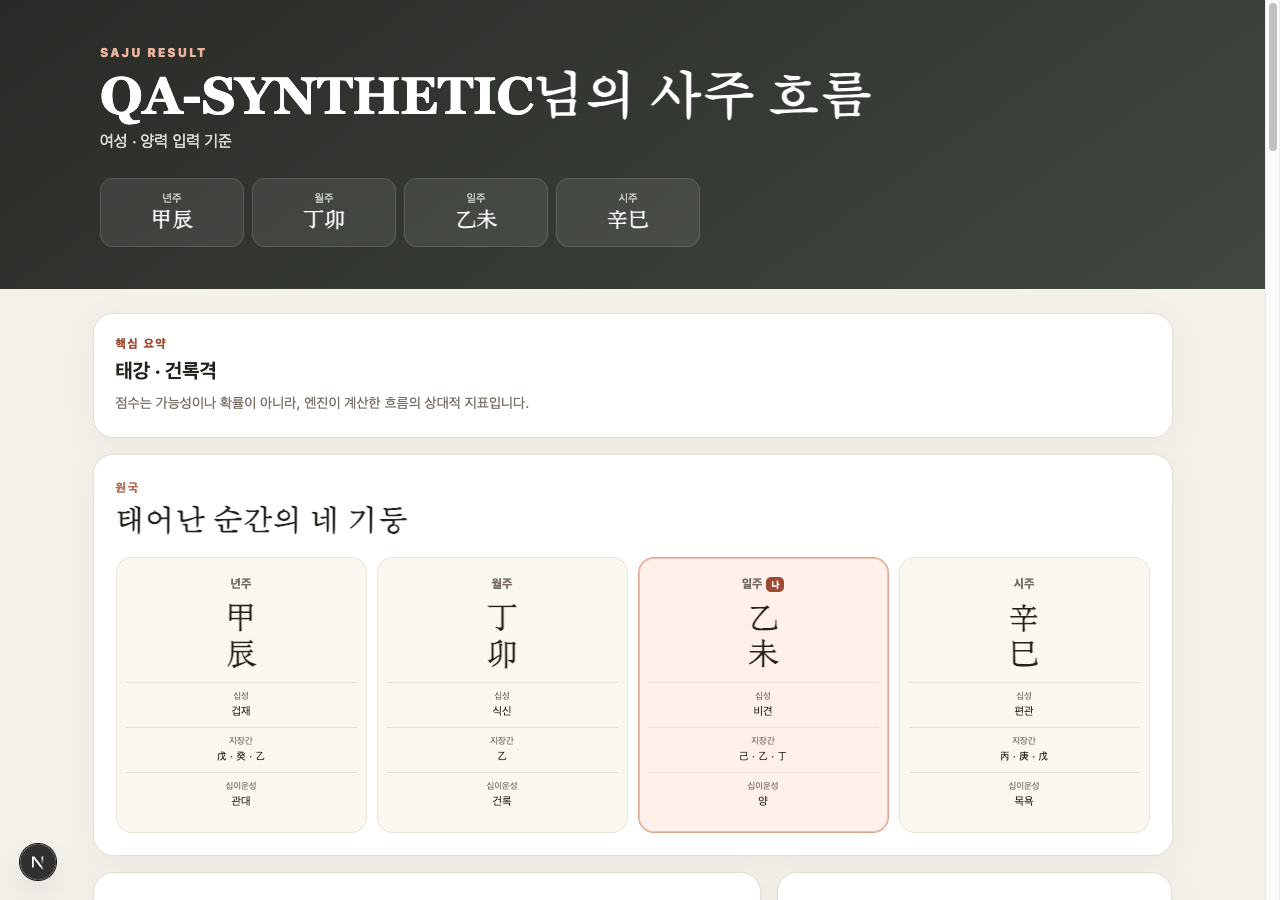
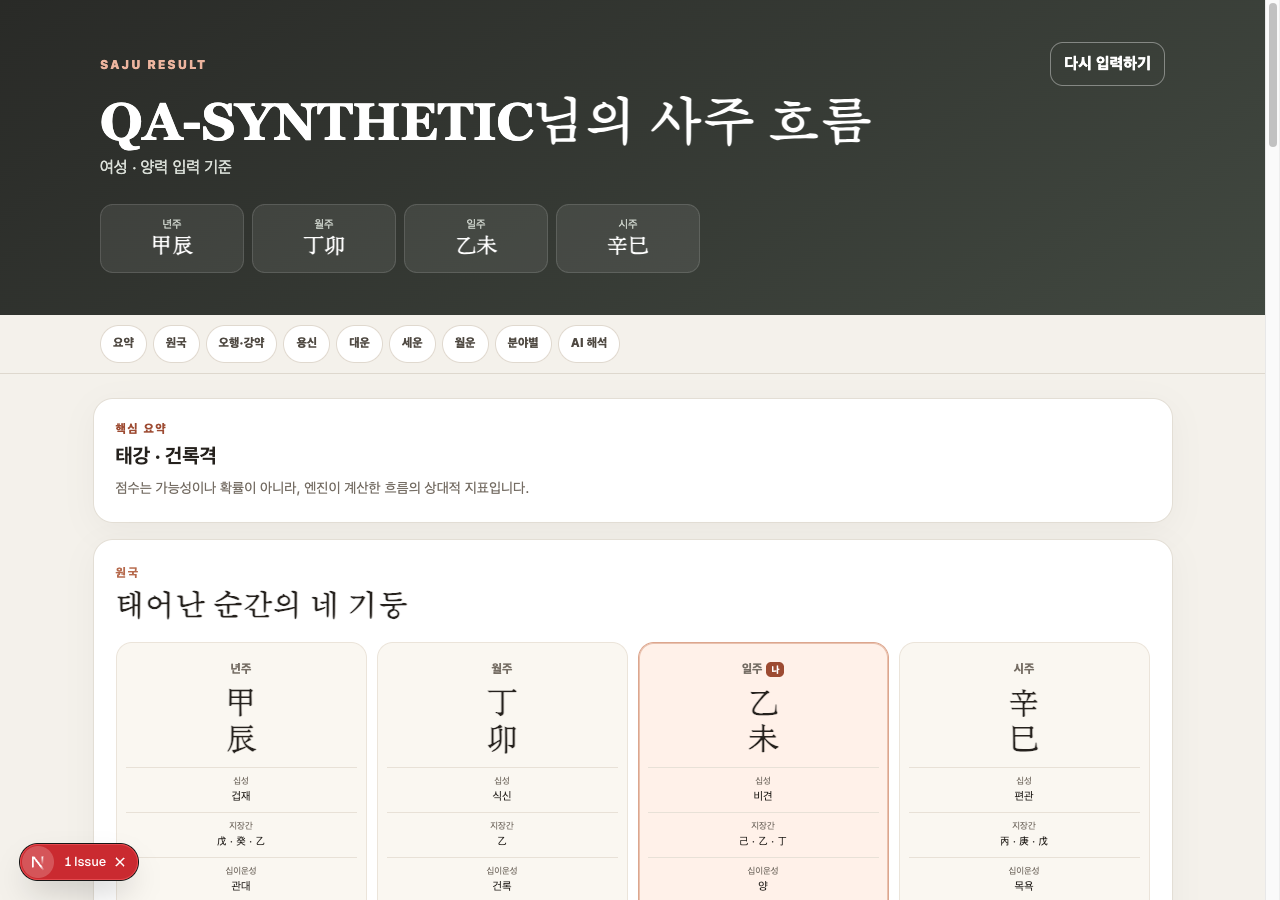
fix: refine customer result experience

diff --git a/src/components/CustomerResult.tsx b/src/components/CustomerResult.tsx
@@ -36,8 +36,11 @@ function Evidence({ ids, analysis }: { ids: string[]; analysis: SajuAnalysis }) 
       analysis.usefulGods.synthesis.status === "implemented" ? analysis.usefulGods.synthesis.evidence : []].flat();
     return new Map(all.map((item) => [item, item]));
   }, [analysis]);
-  return <details className="evidence"><summary>왜 이렇게 나오나요?</summary><ul>{ids.map((id) => <li key={id}><code>{id}</code><span>{source.get(id) ?? "검증된 근거 식별자 · 상세 설명은 엔진 원본을 기준으로 합니다."}</span></li>)}</ul></details>;
+  const label = (id: string) => id.includes("FAVORABILITY") ? "선택한 기간의 지원 흐름을 반영했습니다." : id.includes("ACTIVATION") ? "변화와 사건의 움직임이 얼마나 활발한지 반영했습니다." : id.includes("ALIGNMENT") ? "현재 흐름과 원국 오행의 정렬 관계를 반영했습니다." : id.includes("CATEGORY") ? "분야별 지원도와 활성도를 각각 반영했습니다." : id.includes("USEFUL_GOD") ? "여러 용신 관점의 합의와 충돌을 함께 반영했습니다." : "검증된 엔진 결과를 근거로 사용했습니다.";
+  return <details className="evidence"><summary>왜 이렇게 나오나요?</summary><ul>{ids.map((id) => <li key={id}><span>{label(source.get(id) ?? id)}</span>{process.env.NODE_ENV !== "production" && <code>{id}</code>}</li>)}</ul></details>;
 }
+
+const RESULT_NAV = [["summary", "요약"], ["natal", "원국"], ["elements", "오행·강약"], ["useful", "용신"], ["daeun", "대운"], ["seun", "세운"], ["wolun", "월운"], ["categories", "분야별"], ["interpretation", "AI 해석"]] as const;
 
 function Natal({ analysis }: { analysis: SajuAnalysis }) {
   const tenGods = analysis.tenGods.value, hidden = analysis.hiddenStems.value, stages = analysis.twelveStages.value;
@@ -68,29 +71,27 @@ function PreferencesAndStars({ analysis }: { analysis: SajuAnalysis }) {
   return <div className="splitCards"><Section id="preferences" eyebrow="천간 · 지지" title="선호도가 높은 글자"><div className="preference"><div><span>천간</span><strong>{stems.status === "implemented" ? stems.rankedStems.slice(0, 4).join(" · ") : "—"}</strong></div><div><span>지지</span><strong>{branches.status === "implemented" ? branches.rankedBranches.slice(0, 4).join(" · ") : "—"}</strong></div></div><details><summary>전체 순위 보기</summary><p className="rankLine">{stems.status === "implemented" && stems.stems.map((v) => `${v.stem} ${round(v.score)}`).join(" · ")}</p><p className="rankLine">{branches.status === "implemented" && branches.branches.map((v) => `${v.branch} ${round(v.score)}`).join(" · ")}</p></details></Section><Section id="stars" eyebrow="귀인 · 신살" title="탐지된 보조 지표"><div className="chips">{detected.length ? detected.map((star) => <span key={star.id}>{star.label}</span>) : <span>두드러진 항목 없음</span>}</div><p className="notice">전통적으로 성향과 흐름을 보조해 읽는 지표이며, 하나의 항목만으로 길흉이나 사건을 단정하지 않습니다.</p></Section></div>;
 }
 
-function Periods({ analysis, current }: { analysis: SajuAnalysis; current: CurrentPeriodSelection }) {
+function Periods({ analysis, current, year, onYearChange }: { analysis: SajuAnalysis; current: CurrentPeriodSelection; year: number; onYearChange: (year: number) => void }) {
   const fortune = analysis.fortune as FortuneResult;
   const [daeunIndex, setDaeunIndex] = useState(current.daeunIndex ?? 0);
   const seunAll = fortune.seun.status === "implemented" ? fortune.seun.periods ?? [] : [];
-  const initialYear = current.seunYear ?? seunAll[0]?.year ?? 0;
-  const [year, setYear] = useState(initialYear);
   const seun = seunAll.find((item) => item.year === year);
   const wolun = fortune.wolun.status === "implemented" ? (fortune.wolun.periods ?? []).filter((item) => item.seunYear === year).slice(0, 12) : [];
   const selectedDaeun = fortune.daeun.status === "implemented" ? fortune.daeun.periods[daeunIndex] : undefined;
-  return <><Section id="daeun" eyebrow="대운" title="10년 흐름"><div className="timeline" role="list" aria-label="대운 타임라인">{fortune.daeun.status === "implemented" && fortune.daeun.periods.map((period) => <button role="listitem" aria-pressed={period.index === daeunIndex} className={period.index === daeunIndex ? "active" : ""} key={period.index} onClick={() => setDaeunIndex(period.index)}><b>{period.pillar.stem}{period.pillar.branch}</b><span>{period.sourcePeriod.ageRange}</span><small>{FAVORABILITY[period.preference.role] ?? period.preference.role} · 변화 {ACTIVITY[period.activation.level]}</small></button>)}</div>{selectedDaeun && <div className="periodDetail"><h3>{selectedDaeun.pillar.stem}{selectedDaeun.pillar.branch} 대운</h3><div className="metricGrid"><Score label="선호도" score={selectedDaeun.preference.baseFavorabilityScore} level={selectedDaeun.preference.role} /><Score label="활성도" score={selectedDaeun.activation.score} level={selectedDaeun.activation.level} tone="activity" /></div><p>십성 {selectedDaeun.tenGodProfile.stemTenGod} · 주요 상호작용 {selectedDaeun.interactions.length}개</p></div>}</Section><Section id="seun" eyebrow="세운" title="해마다 달라지는 흐름"><div className="yearPicker" role="list" aria-label="세운 연도 선택">{seunAll.slice(0, 18).map((period) => <button role="listitem" aria-pressed={period.year === year} className={period.year === year ? "active" : ""} key={period.year} onClick={() => setYear(period.year)}><b>{period.year}</b><span>{period.pillar.stem}{period.pillar.branch}</span></button>)}</div>{seun && <SeunDetail period={seun} />}</Section><Wolun periods={wolun} /></>;
+  return <><Section id="daeun" eyebrow="대운" title="10년 흐름"><p className="sectionLead scrollHint">좌우로 넘겨 다른 대운을 선택할 수 있어요.</p><div className="timeline" role="list" aria-label="대운 타임라인">{fortune.daeun.status === "implemented" && fortune.daeun.periods.map((period) => <button role="listitem" aria-pressed={period.index === daeunIndex} className={period.index === daeunIndex ? "active" : ""} key={period.index} onClick={() => setDaeunIndex(period.index)}><b>{period.pillar.stem}{period.pillar.branch}</b><span>{period.sourcePeriod.ageRange}</span><small>{FAVORABILITY[period.preference.role] ?? period.preference.role} · 변화 {ACTIVITY[period.activation.level]}</small></button>)}</div>{selectedDaeun && <div className="periodDetail" aria-live="polite"><h3>{selectedDaeun.pillar.stem}{selectedDaeun.pillar.branch} 대운</h3><div className="metricGrid"><Score label="선호도" score={selectedDaeun.preference.baseFavorabilityScore} level={selectedDaeun.preference.role} /><Score label="활성도" score={selectedDaeun.activation.score} level={selectedDaeun.activation.level} tone="activity" /></div><p>십성 {selectedDaeun.tenGodProfile.stemTenGod} · 주요 상호작용 {selectedDaeun.interactions.length}개</p></div>}</Section><Section id="seun" eyebrow="세운" title="해마다 달라지는 흐름"><p className="sectionLead scrollHint">연도를 선택하면 월운과 분야별 흐름도 함께 바뀝니다.</p><div className="yearPicker" role="list" aria-label="세운 연도 선택">{seunAll.slice(0, 18).map((period) => <button role="listitem" aria-pressed={period.year === year} className={period.year === year ? "active" : ""} key={period.year} onClick={() => onYearChange(period.year)}><b>{period.year}{period.year === current.seunYear && <small className="currentBadge">현재</small>}</b><span>{period.pillar.stem}{period.pillar.branch}</span></button>)}</div>{seun && <div aria-live="polite"><SeunDetail period={seun} /></div>}</Section><Wolun periods={wolun} /></>;
 }
 
 function SeunDetail({ period }: { period: SeunActivationPeriod }) { return <div className="periodDetail"><h3>{period.year}년 {period.pillar.stem}{period.pillar.branch}</h3><p>현재 대운 {period.activeDaeunPillar ?? "경계 밖"}{period.daeunSegments.length > 1 && " · 대운 경계가 포함된 해"}</p><div className="metricGrid"><Score label="선호도" score={period.preference.baseFavorabilityScore} level={period.preference.role} /><Score label="활성도" score={period.activation.score} level={period.activation.level} tone="activity" /></div></div>; }
 
 function Wolun({ periods }: { periods: WolunActivationPeriod[] }) { return <Section id="wolun" eyebrow="월운" title="절기로 나눈 열두 달"><p className="notice">월운은 양력 1일 기준이 아니라 절기 경계로 바뀝니다. 아래 실제 기간을 함께 확인해 주세요.</p><div className="monthGrid">{periods.map((period) => <article key={`${period.seunYear}-${period.indexInSeun}`}><span>{period.solarMonthBranch}월</span><strong>{period.pillar.stem}{period.pillar.branch}</strong><small>{date(period.period.startInstant)} ~ {date(period.period.endInstant)}</small><div><b>선호 {round(period.preference.baseFavorabilityScore)}</b><b>변화 {round(period.activation.score)}</b></div></article>)}</div></Section>; }
 
-function Categories({ analysis, current }: { analysis: SajuAnalysis; current: CurrentPeriodSelection }) {
+function Categories({ analysis, selectedYear, current }: { analysis: SajuAnalysis; selectedYear: number; current: CurrentPeriodSelection }) {
   const fortune = analysis.fortune as FortuneResult;
   if (fortune.categories.status !== "implemented" || fortune.synthesis.status !== "implemented") return null;
-  const axes = fortune.synthesis.seun.find((item) => item.context.seunYear === current.seunYear) ?? fortune.synthesis.daeun[current.daeunIndex ?? 0] ?? fortune.synthesis.seun[0];
+  const axes = fortune.synthesis.seun.find((item) => item.context.seunYear === selectedYear) ?? fortune.synthesis.daeun[current.daeunIndex ?? 0] ?? fortune.synthesis.seun[0];
   const category = fortune.categories.seun.find((item) => item.synthesisId === axes?.synthesisId) ?? fortune.categories.daeun.find((item) => item.synthesisId === axes?.synthesisId) ?? fortune.categories.seun[0];
   if (!category || !axes) return null;
-  return <><Section id="axes" eyebrow="종합 운 흐름" title="서로 다른 세 가지 축"><div className="metricGrid three"><Score label="지원 흐름" score={axes.favorability.score} level={axes.favorability.level} /><Score label="변화 활성도" score={axes.activation.score} level={axes.activation.level} tone="activity" /><Score label="오행 정렬도" score={axes.transformationAlignment.adjustedScore} level={axes.transformationAlignment.level} /></div></Section><Section id="categories" eyebrow="분야별 흐름" title="생활 영역별로 살펴보기"><CategoryGrid category={category} /><CategoryDetails category={category} /><Evidence ids={category.evidence.slice(0, 4)} analysis={analysis} /></Section></>;
+  return <><Section id="axes" eyebrow="종합 운 흐름" title={`${selectedYear}년의 서로 다른 세 가지 축`}><div className="metricGrid three"><Score label="지원 흐름" score={axes.favorability.score} level={axes.favorability.level} /><Score label="변화 활성도" score={axes.activation.score} level={axes.activation.level} tone="activity" /><Score label="오행 정렬도" score={axes.transformationAlignment.adjustedScore} level={axes.transformationAlignment.level} /></div></Section><Section id="categories" eyebrow="분야별 흐름" title={`${selectedYear}년 생활 영역별 흐름`}><CategoryGrid category={category} /><CategoryDetails category={category} /><Evidence ids={category.evidence.slice(0, 4)} analysis={analysis} /></Section></>;
 }
 
 function CategoryGrid({ category }: { category: CategoryFortunePeriod }) { const items = [["재물", category.wealth], ["사업", category.business], ["직장", category.career], ["관계", category.relationship], ["학업", category.study], ["변화", category.change]] as const; return <div className="categoryGrid">{items.map(([label, item]) => <article key={label}><h3>{label}</h3><Score label="지원도" score={item.supportScore} level={item.supportLevel} /><Score label="활성도" score={item.activityScore} level={item.activityLevel} tone="activity" /></article>)}</div>; }
@@ -103,6 +104,9 @@ function Interpretation({ state, onRequest, onRetry, analysis }: { state: Interp
 }
 function Report({ report, analysis }: { report: StructuredInterpretation; analysis: SajuAnalysis }) { return <div className="report"><h3>{report.headline}</h3><p className="reportSummary">{report.summary}</p>{report.highlights.length > 0 && <div className="callout"><b>주목할 점</b><ul>{report.highlights.map((item) => <li key={item}>{item}</li>)}</ul></div>}{report.sections.map((section) => <article key={section.id}><h4>{section.title}</h4><p>{section.body}</p><Evidence ids={section.evidenceIds} analysis={analysis} /></article>)}{report.cautions.length > 0 && <div className="cautions"><b>유의할 점</b><ul>{report.cautions.map((item) => <li key={item}>{item}</li>)}</ul></div>}<p className="disclaimer">{report.disclaimer}</p></div>; }
 
-export function CustomerResult({ analysis, current, interpretation, onInterpret, onRetry }: { analysis: SajuAnalysis; current: CurrentPeriodSelection; interpretation: InterpretationUiState; onInterpret: () => void; onRetry: () => void }) {
-  return <div className="customerResult"><header className="resultHero"><span className="sectionEyebrow">SAJU RESULT</span><h1>{analysis.person.name}님의 사주 흐름</h1><p>{analysis.person.gender === "female" ? "여성" : "남성"} · {analysis.birthInput.calendarType === "solar" ? "양력" : "음력"} 입력 기준</p><div className="heroPillars">{(["year", "month", "day", "hour"] as PillarPosition[]).map((position) => <span key={position}><small>{POSITION[position]}</small><b>{analysis.pillars[position].stem}{analysis.pillars[position].branch}</b></span>)}</div></header><main className="resultBody"><section className="summaryStrip"><span>핵심 요약</span><strong>{analysis.strength.adjusted.level ?? "강약 분석"} · {analysis.structure.primary?.type ?? "격국 판단 중"}</strong><p>점수는 가능성이나 확률이 아니라, 엔진이 계산한 흐름의 상대적 지표입니다.</p></section><Natal analysis={analysis} /><FiveElements analysis={analysis} /><Section id="structure" eyebrow="격국" title={analysis.structure.primary?.type ?? "격국 판단 유보"}><div className="structureStatus"><strong>{STRUCTURE[analysis.structure.classificationStatus] ?? analysis.structure.classificationStatus}</strong><span>{STRUCTURE[analysis.structure.qualityEvaluation.integrity] ?? analysis.structure.qualityEvaluation.integrity}</span></div></Section><UsefulGod analysis={analysis} /><PreferencesAndStars analysis={analysis} /><Periods analysis={analysis} current={current} /><Categories analysis={analysis} current={current} /><Interpretation state={interpretation} onRequest={onInterpret} onRetry={onRetry} analysis={analysis} />{process.env.NODE_ENV !== "production" && <details className="debugPanel"><summary>개발자 진단 정보</summary><p>규칙 버전 {analysis.rulesetVersion} · 엔진 {analysis.engineMetadata.engineVersion}</p><pre>{JSON.stringify({ current, analysis, interpretation }, null, 2)}</pre></details>}</main></div>;
+export function CustomerResult({ analysis, current, interpretation, onInterpret, onRetry, onRestart }: { analysis: SajuAnalysis; current: CurrentPeriodSelection; interpretation: InterpretationUiState; onInterpret: () => void; onRetry: () => void; onRestart?: () => void }) {
+  const fortune = analysis.fortune as FortuneResult;
+  const firstYear = fortune.seun.status === "implemented" ? fortune.seun.periods?.[0]?.year : undefined;
+  const [selectedYear, setSelectedYear] = useState(current.seunYear ?? firstYear ?? 0);
+  return <div className="customerResult"><header className="resultHero"><div className="heroTop"><span className="sectionEyebrow">SAJU RESULT</span>{onRestart && <button className="restartButton" onClick={onRestart}>다시 입력하기</button>}</div><h1>{analysis.person.name}님의 사주 흐름</h1><p>{analysis.person.gender === "female" ? "여성" : "남성"} · {analysis.birthInput.calendarType === "solar" ? "양력" : "음력"} 입력 기준</p><div className="heroPillars">{(["year", "month", "day", "hour"] as PillarPosition[]).map((position) => <span key={position}><small>{POSITION[position]}</small><b>{analysis.pillars[position].stem}{analysis.pillars[position].branch}</b></span>)}</div></header><nav className="resultNav" aria-label="결과 빠른 이동">{RESULT_NAV.map(([id, label]) => <a key={id} href={`#${id}`}>{label}</a>)}</nav><main className="resultBody"><section id="summary" className="summaryStrip"><span>핵심 요약</span><strong>{analysis.strength.adjusted.level ?? "강약 분석"} · {analysis.structure.primary?.type ?? "격국 판단 중"}</strong><p>점수는 가능성이나 확률이 아니라, 엔진이 계산한 흐름의 상대적 지표입니다.</p></section><Natal analysis={analysis} /><FiveElements analysis={analysis} /><Section id="structure" eyebrow="격국" title={analysis.structure.primary?.type ?? "격국 판단 유보"}><div className="structureStatus"><strong>{STRUCTURE[analysis.structure.classificationStatus] ?? analysis.structure.classificationStatus}</strong><span>{STRUCTURE[analysis.structure.qualityEvaluation.integrity] ?? analysis.structure.qualityEvaluation.integrity}</span></div></Section><UsefulGod analysis={analysis} /><PreferencesAndStars analysis={analysis} /><Periods analysis={analysis} current={current} year={selectedYear} onYearChange={setSelectedYear} /><Categories analysis={analysis} current={current} selectedYear={selectedYear} /><Interpretation state={interpretation} onRequest={onInterpret} onRetry={onRetry} analysis={analysis} />{process.env.NODE_ENV !== "production" && <details className="debugPanel"><summary>개발자 진단 정보</summary><p>규칙 버전 {analysis.rulesetVersion} · 엔진 {analysis.engineMetadata.engineVersion}</p><pre>{JSON.stringify({ current, analysis, interpretation }, null, 2)}</pre></details>}</main></div>;
 }

diff --git a/src/app/globals.css b/src/app/globals.css
@@ -47,7 +47,11 @@ pre { max-height:540px; margin:0; padding:22px; overflow:auto; color:#e7e0d8; ba
 .customerResult { min-height:100vh; background:#f4f1eb; overflow-x:hidden; }
 .resultHero { padding:42px max(20px,calc((100vw - 1080px)/2)); color:#fff; background:linear-gradient(145deg,#292a27,#414840); }
 .resultHero h1 { max-width:1080px; margin:9px 0; font-size:clamp(30px,7vw,52px); }
+.resultHero h1 { overflow-wrap:anywhere; }
 .resultHero>p { margin:0; color:#d9ded7; }
+.heroTop { display:flex; align-items:center; justify-content:space-between; gap:16px; max-width:1080px; }
+.restartButton { min-height:44px; padding:9px 13px; color:#fff; background:transparent; border:1px solid rgba(255,255,255,.38); }
+.restartButton:hover { background:rgba(255,255,255,.12); }
 .sectionEyebrow { color:#b66a4d; font-size:12px; font-weight:900; letter-spacing:.16em; text-transform:uppercase; }
 .resultHero .sectionEyebrow { color:#edb49e; }
 .heroPillars { display:grid; grid-template-columns:repeat(4,minmax(0,1fr)); gap:8px; max-width:600px; margin-top:26px; }
@@ -56,6 +60,11 @@ pre { max-height:540px; margin:0; padding:22px; overflow:auto; color:#e7e0d8; ba
 .heroPillars small { color:#c8cec6; font-size:11px; }
 .heroPillars b { margin-top:3px; font:700 21px Georgia,"Noto Serif KR",serif; white-space:nowrap; }
 .resultBody { width:min(100% - 24px,1080px); margin:0 auto; padding:24px 0 80px; }
+.resultNav { position:sticky; z-index:10; top:0; display:flex; gap:6px; padding:10px max(12px,calc((100vw - 1080px)/2)); overflow-x:auto; background:rgba(244,241,235,.94); border-bottom:1px solid #ded8ce; backdrop-filter:blur(12px); scrollbar-width:none; }
+.resultNav::-webkit-scrollbar { display:none; }
+.resultNav a { flex:0 0 auto; min-height:38px; padding:9px 12px; color:#4f4942; background:#fff; border:1px solid #e0d9cf; border-radius:999px; font-size:12px; font-weight:800; text-decoration:none; }
+.resultNav a:focus-visible { outline:3px solid #df8c68; outline-offset:2px; }
+.resultSection,.summaryStrip { scroll-margin-top:70px; }
 .summaryStrip,.resultSection { margin-bottom:16px; padding:22px; background:#fff; border:1px solid #e3ded5; border-radius:20px; box-shadow:0 8px 32px rgba(55,49,42,.05); }
 .summaryStrip span,.summaryStrip strong { display:block; }
 .summaryStrip span { color:var(--accent); font-size:12px; font-weight:900; letter-spacing:.12em; }
@@ -98,11 +107,14 @@ details summary { min-height:44px; padding:13px 0; }
 .chips { display:flex; gap:7px; flex-wrap:wrap; margin-bottom:13px; }
 .chips span { padding:7px 10px; color:#6a4b38; background:#f7ece4; border-radius:999px; font-size:12px; font-weight:800; }
 .timeline,.yearPicker { display:flex; gap:9px; padding-bottom:8px; overflow-x:auto; scroll-snap-type:x proximity; }
+.scrollHint { margin:-8px 0 13px; }
 .timeline button,.yearPicker button { flex:0 0 auto; min-width:116px; padding:13px; text-align:left; color:var(--ink); background:#f5f2ed; border:1px solid transparent; border-radius:13px; scroll-snap-align:start; }
 .timeline button.active,.yearPicker button.active { color:#fff; background:#3e4942; border-color:#3e4942; }
 .timeline button>* ,.yearPicker button>* { display:block; }
 .timeline button b { font:700 20px Georgia,serif; }
 .timeline button span,.timeline button small,.yearPicker button span { margin-top:4px; font-size:11px; }
+.currentBadge { display:inline; margin-left:5px; padding:2px 5px; color:#3e4942; background:#dce9e1; border-radius:999px; font:800 9px ui-sans-serif,system-ui,sans-serif; }
+.yearPicker button.active .currentBadge { color:#fff; background:rgba(255,255,255,.2); }
 .periodDetail { margin-top:14px; padding:18px; background:#faf8f4; border-radius:15px; }
 .periodDetail h3 { margin:0 0 13px; }
 .periodDetail p { color:var(--muted); font-size:13px; }
@@ -133,7 +145,8 @@ details summary { min-height:44px; padding:13px 0; }
 .evidence li { padding:10px; background:#f7f5f1; border-radius:9px; }
 .evidence code,.evidence li span { display:block; overflow-wrap:anywhere; }
 .evidence code { color:var(--accent); font-size:10px; }
-.evidence li span { margin-top:3px; color:var(--muted); font-size:12px; }
+.evidence li span { color:#514b44; font-size:13px; line-height:1.55; }
+.evidence li span+code { margin-top:5px; }
 .emptyState,.errorPanel { padding:22px; text-align:center; background:#f8f5ef; border-radius:14px; }
 .errorPanel { background:#fbf1eb; }
 .emptyState button,.errorPanel button { min-height:46px; }
@@ -148,4 +161,4 @@ details summary { min-height:44px; padding:13px 0; }
 .debugPanel { margin-top:20px; color:#ddd; background:#222; border-radius:14px; }.debugPanel summary { padding:16px; }.debugPanel p { padding:0 16px; }.debugPanel pre { max-width:100%; overflow:auto; }
 button:focus-visible,summary:focus-visible,input:focus-visible,select:focus-visible { outline:3px solid #df8c68; outline-offset:3px; }
 @media (max-width:700px) { .splitCards { grid-template-columns:1fr; }.categoryGrid { grid-template-columns:repeat(2,minmax(0,1fr)); }.monthGrid { grid-template-columns:repeat(2,minmax(0,1fr)); }.perspectives { grid-template-columns:repeat(3,1fr); } }
-@media (max-width:430px) { .resultHero { padding-top:30px; }.resultBody { width:min(100% - 16px,1080px); padding-top:12px; }.summaryStrip,.resultSection { padding:17px; border-radius:16px; }.natalGrid { gap:5px; }.natalPillar { padding:12px 4px; border-radius:12px; }.natalPillar>strong { font-size:27px; }.natalPillar dd { font-size:10px; }.metricGrid.three { grid-template-columns:1fr; }.usefulGroups { grid-template-columns:1fr; }.categoryGrid { gap:7px; }.categoryGrid article { padding:9px; }.categoryGrid .metric { padding:9px 7px; }.categoryGrid .metric>strong { font-size:18px; }.heroPillars { gap:5px; }.heroPillars b { font-size:19px; } }
+@media (max-width:430px) { .resultHero { padding-top:24px; }.resultHero h1 { font-size:clamp(28px,11vw,40px); }.resultBody { width:min(100% - 16px,1080px); padding-top:12px; }.summaryStrip,.resultSection { padding:17px; border-radius:16px; }.natalGrid { gap:5px; }.natalPillar { padding:12px 4px; border-radius:12px; }.natalPillar>strong { font-size:27px; }.natalPillar dd { font-size:10px; }.metricGrid.three { grid-template-columns:1fr; }.usefulGroups { grid-template-columns:1fr; }.categoryGrid { grid-template-columns:1fr; gap:8px; }.categoryGrid article { display:grid; grid-template-columns:1fr 1fr; gap:8px; padding:11px; }.categoryGrid h3 { grid-column:1/-1; }.categoryGrid .metric+.metric { margin-top:0; }.categoryGrid .metric { padding:10px 8px; }.categoryGrid .metric>strong { font-size:18px; }.heroPillars { gap:5px; }.heroPillars b { font-size:19px; }.monthGrid article { padding:12px 10px; }.monthGrid small { font-size:11px; }.heroTop { align-items:flex-start; }.restartButton { flex:0 0 auto; padding-inline:11px; font-size:12px; } }

diff --git a/src/app/page.tsx b/src/app/page.tsx
@@ -16,6 +16,6 @@ export default function Home() {
       setInterpretation(await response.json() as InterpretationUiState);
     } catch { setInterpretation({ status: "failed", ruleVersion: "ai-interpretation-v1", error: { code: "NETWORK_ERROR", message: "네트워크 연결을 확인해 주세요." } }); }
   }
-  if (result) return <CustomerResult analysis={result.analysis} current={result.current} interpretation={interpretation} onInterpret={requestInterpretation} onRetry={requestInterpretation} />;
+  if (result) return <CustomerResult analysis={result.analysis} current={result.current} interpretation={interpretation} onInterpret={requestInterpretation} onRetry={requestInterpretation} onRestart={() => { setResult(null); setInterpretation({ status: "not_requested" }); }} />;
   return <main className="shell"><header className="hero"><span className="eyebrow">POSTPOST · SAJU</span><h1>나의 흐름을<br />차분히 읽어보세요</h1><p>태어난 순간의 기운부터 지금의 흐름까지, 계산 근거를 바탕으로 정리해 드립니다.</p></header><SajuInputForm onResult={(value) => { setResult(value); setInterpretation({ status: "not_requested" }); }} /><section className="ruleNote"><strong>안내</strong><p>결과는 전통 명리 이론에 따른 참고 정보이며 중요한 결정을 대신하지 않습니다.</p></section></main>;
 }

diff --git a/tests/customer-result-ui.spec.ts b/tests/customer-result-ui.spec.ts
@@ -50,4 +50,18 @@ describe("CUSTOMER_RESULT_UI_V1", () => {
     expect(page).not.toContain("OPENAI_API_KEY");
     expect(component).toContain('process.env.NODE_ENV !== "production"');
   });
+
+  it("keeps selected seun, wolun and category presentation synchronized", async () => {
+    const source = await readFile("src/components/CustomerResult.tsx", "utf8");
+    expect(source).toContain("selectedYear={selectedYear}");
+    expect(source).toContain("item.context.seunYear === selectedYear");
+    expect(source).toContain("onYearChange(period.year)");
+  });
+
+  it("offers customer navigation without exposing raw evidence IDs in production", async () => {
+    const source = await readFile("src/components/CustomerResult.tsx", "utf8");
+    expect(source).toContain('aria-label="결과 빠른 이동"');
+    expect(source).toContain("다시 입력하기");
+    expect(source).toContain('process.env.NODE_ENV !== "production" && <code>{id}</code>');
+  });
 });

diff --git a/docs/RELEASE_CANDIDATE_V1.md b/docs/RELEASE_CANDIDATE_V1.md
@@ -9,7 +9,7 @@ Base: PR #29 merge `9ee2ec9dd33eec9bd7153c1e56ea225f823d450a`
 
 ## Verified
 
-- Final regression: **726 tests passed**; typecheck, production build and `git diff --check` passed.
+- Final regression: **728 tests passed**; typecheck, production build and `git diff --check` passed.
 - The deterministic engine was not changed. Canonical pillars remain `乙亥 / 乙酉 / 甲子 / 戊辰`, day master `甲`, raw elements `木3 火0 土2 金1 水2`.
 - Korea natural-time 09:29/09:30, natural-midnight rollover, ipchun and all 12 solar-term month boundaries, first daeun start, calendar +10-year daeun boundaries, seun crossing a daeun boundary, and wolun crossing a daeun boundary are covered by start-inclusive/end-exclusive tests.
 - Supported-range edges and overseas rejection remain explicit; unsupported countries are not silently treated as KST.
@@ -26,6 +26,16 @@ Base: PR #29 merge `9ee2ec9dd33eec9bd7153c1e56ea225f823d450a`
 - `qa-screenshots/result-430x932.png`
 - `qa-screenshots/result-1280x900.png`
 - `qa-screenshots/result-1440x1000.png`
+- `qa-screenshots/mobile-full.png`
+- `qa-screenshots/desktop-full.png`
+
+## Customer UI confirmation
+
+- Added a sticky, keyboard-focusable quick-navigation bar for the long result page.
+- Added a clear `다시 입력하기` action without exposing additional birth data.
+- Seun selection now updates the selected year's wolun, fortune axes and category cards together; 2033 → 2034 interaction was verified in-browser.
+- Raw evidence IDs remain available only in development. Customer-facing evidence uses deterministic explanatory copy.
+- Improved long-name wrapping, mobile category density, month-date readability, current-year indication and horizontal timeline guidance.
 
 ## Live OpenAI smoke
 
